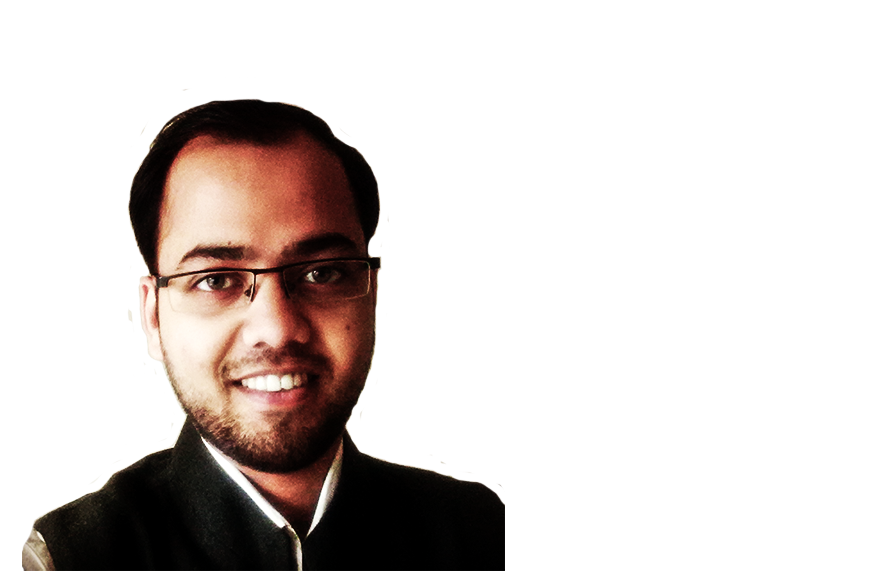
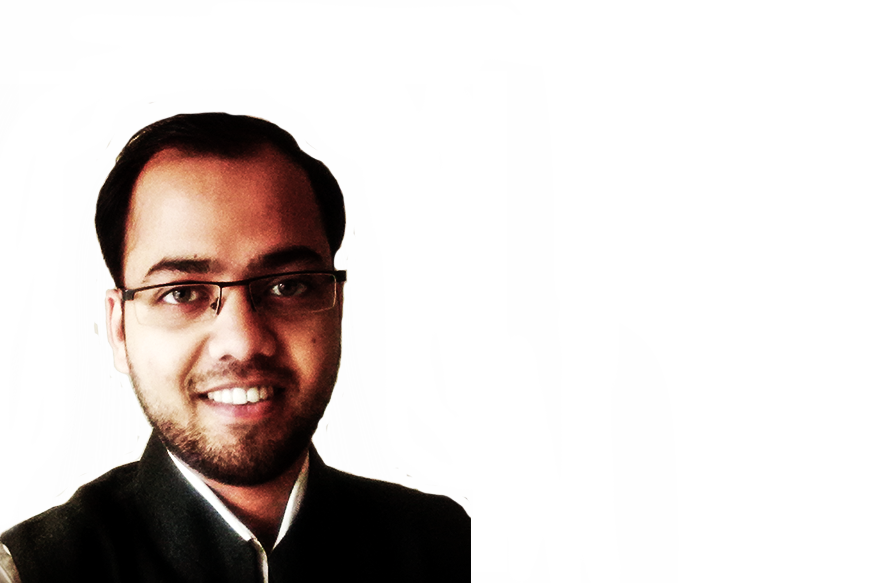
ll

Changed region(s): [[0.0, 0.1544, 0.5863, 1.0]]

diff --git a/style.css b/style.css
@@ -52,20 +52,6 @@ body {
 	text-transform: uppercase;
 }
 
-/* Portrait Iphone
-@media only screen 
-  and (min-device-width: 320px) 
-  and (max-device-width: 568px)
-  and (-webkit-min-device-pixel-ratio: 2)
-  and (orientation: portrait) {
-	
-	.spotlight {
-	font-size: 8em;
-	}
-	  
-}*/
-
-
 
 .apoorva {
 	background: url(images/bg2.jpg) no-repeat bottom right;
@@ -84,7 +70,7 @@ body {
 }
 .anubhav h2 {
 	color: #5246fa;
-	left: 210px;
+	left: 110px;
 	font-size: 8em;
 }
 
